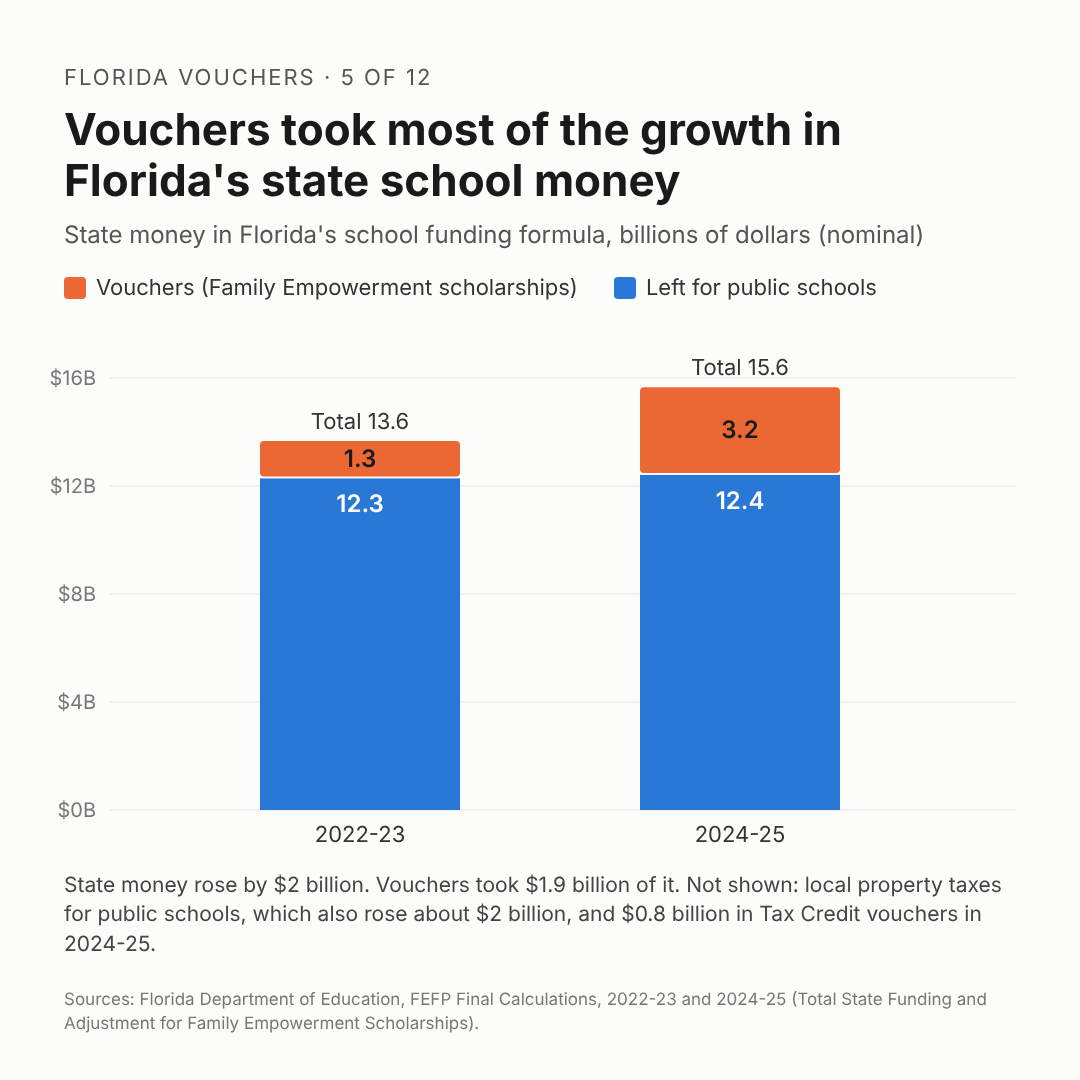
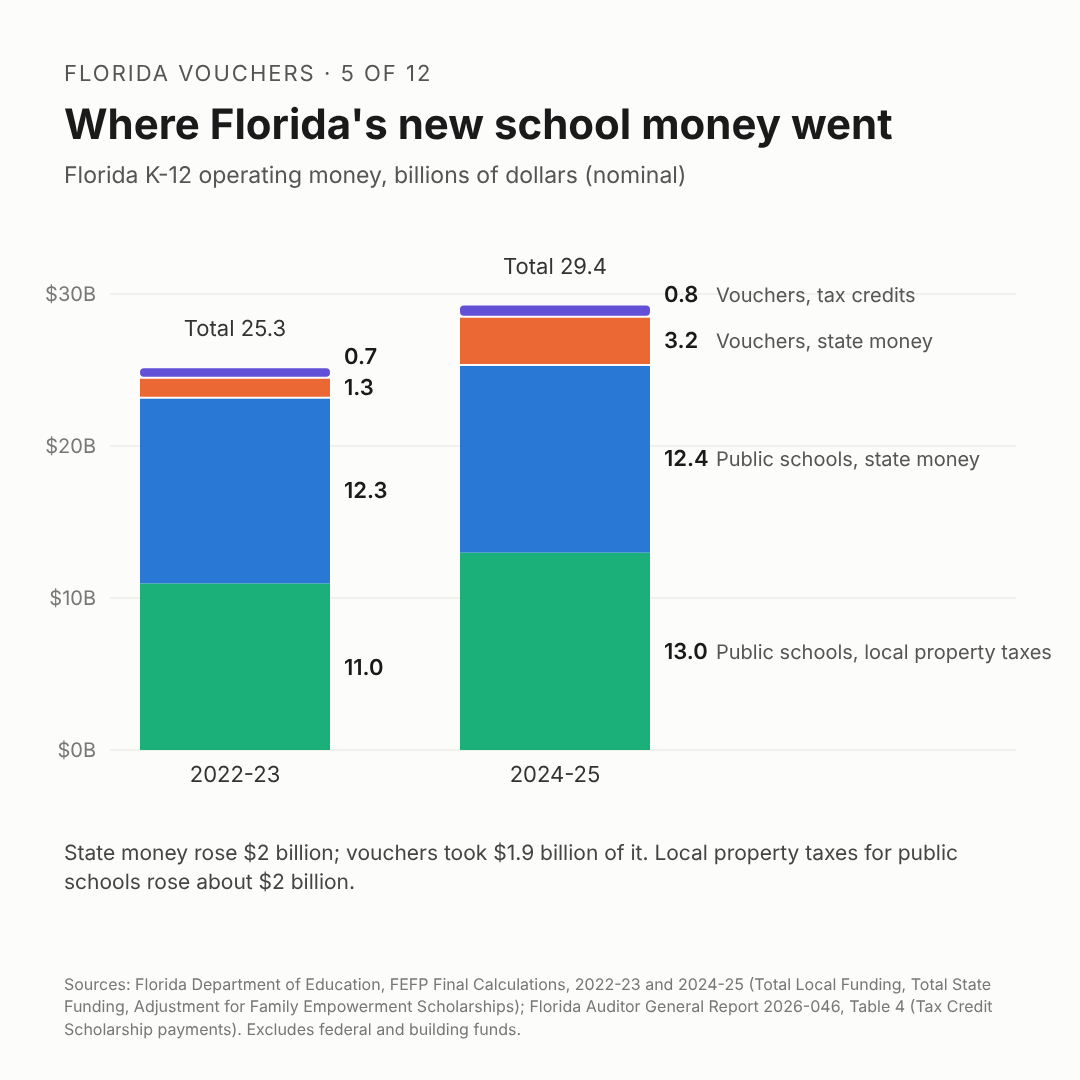
Post 5 image: add local property taxes and tax-credit vouchers
Claude-Session: https://claude.ai/code/session_016LYyWm4MBRFt2tmnYoAYw5

diff --git a/series/florida-vouchers/05-what-vouchers-cost/post.md b/series/florida-vouchers/05-what-vouchers-cost/post.md
@@ -47,8 +47,8 @@ Sources for this post:
 
 1. The 2007-08 savings estimate, the 90 percent assumption, the 60 percent break-even, the maximum scholarship and per-student formula funding: OPPAGA Report 08-68, "The Corporate Income Tax Credit Scholarship Program Saves State Dollars," December 2008, pp. 3-4, 11-12. https://oppaga.fl.gov/Documents/Reports/08-68.pdf
 2. Where new voucher students came from, fall 2023: News Service of Florida, Sept. 15, 2023, reporting Step Up For Students data as of Sept. 8, 2023. https://jaxtoday.org/2023/09/15/over-100000-new-students-got-florida-school-vouchers/
-3. Voucher spending by program, 2022-23 and 2024-25; the 2024-25 budget overrun, the cut to districts' last payment and the November 2025 payment: Florida Auditor General Report 2026-046, November 2025, Tables 2-4, pp. 5-6, 10, 16-17 and note 26. https://flauditor.gov/pages/pdf_files/2026-046.pdf
-4. State money for schools and the voucher share: Florida Department of Education, FEFP Final Calculations, 2022-23 (https://www.fldoe.org/file/7507/22-23FEFPFinalCalc.pdf) and 2024-25 (https://cdn.fldoe.org/file/7507/2425FEFPFinal.pdf).
+3. Voucher spending by program (Tax Credit figures also used in the image), 2022-23 and 2024-25; the 2024-25 budget overrun, the cut to districts' last payment and the November 2025 payment: Florida Auditor General Report 2026-046, November 2025, Tables 2-4, pp. 5-6, 10, 16-17 and note 26. https://flauditor.gov/pages/pdf_files/2026-046.pdf
+4. State and local money for schools and the voucher share (and the image): Florida Department of Education, FEFP Final Calculations, 2022-23 (https://www.fldoe.org/file/7507/22-23FEFPFinalCalc.pdf) and 2024-25 (https://cdn.fldoe.org/file/7507/2425FEFPFinal.pdf).
 5. Step Up's statement: Step Up For Students, "Tax Credit Scholarship Financial Costs" (undated fact sheet). https://www.stepupforstudents.org/wp-content/uploads/23.1-FTC-Cost-Savings.pdf
 6. Vouchers paid in full when money runs short: Florida Senate bill analysis, CS/SB 318, Dec. 12, 2025, p. 21. https://flsenate.gov/Session/Bill/2026/318/Analyses/2026s00318.ap.PDF
 7. How the forecast and the school funding are set, cuts when money runs short, and the reserve: Section 1011.62(15) and (19), Florida Statutes (https://www.leg.state.fl.us/Statutes/index.cfm?App_mode=Display_Statute&URL=1000-1099%2F1011%2FSections%2F1011.62.html); Education Estimating Conference, PreK-12 enrollment conference reports (https://edr.state.fl.us/Content/conferences/publicschools/prek-12_conferencereport.pdf). Unspent money returns to the treasury: Section 216.301(1), Florida Statutes (https://www.leg.state.fl.us/Statutes/index.cfm?App_mode=Display_Statute&URL=0200-0299/0216/Sections/0216.301.html).
@@ -137,6 +137,10 @@ Sources for this post:
 ---
 
 ## Editor's notes
+
+**Image redrawn (4 Nov, RJ: add local taxes and tax credits):**
+- Four layers for 2022-23 and 2024-25: public schools' local property taxes ($11.0B to $13.0B) and state money ($12.3B to $12.4B), vouchers paid with state money ($1.3B to $3.2B) and with tax credits ($0.7B to $0.8B). Totals $25.3B and $29.4B. Sources: FEFP Final Calculations (Total Local Funding, Total State Funding, FES adjustment) and Auditor General Table 4 ($697.7M; $804.5M). New title: "Where Florida's new school money went." Federal and building money excluded, as noted on the image.
+
 
 **Draft 5 edits (4 Nov, RJ):**
 - Restored the 69 and 13 percent sentence and added our labeled estimate right after it (47 to 61 percent in 2024-25), with the 60 percent paragraph folded in.
